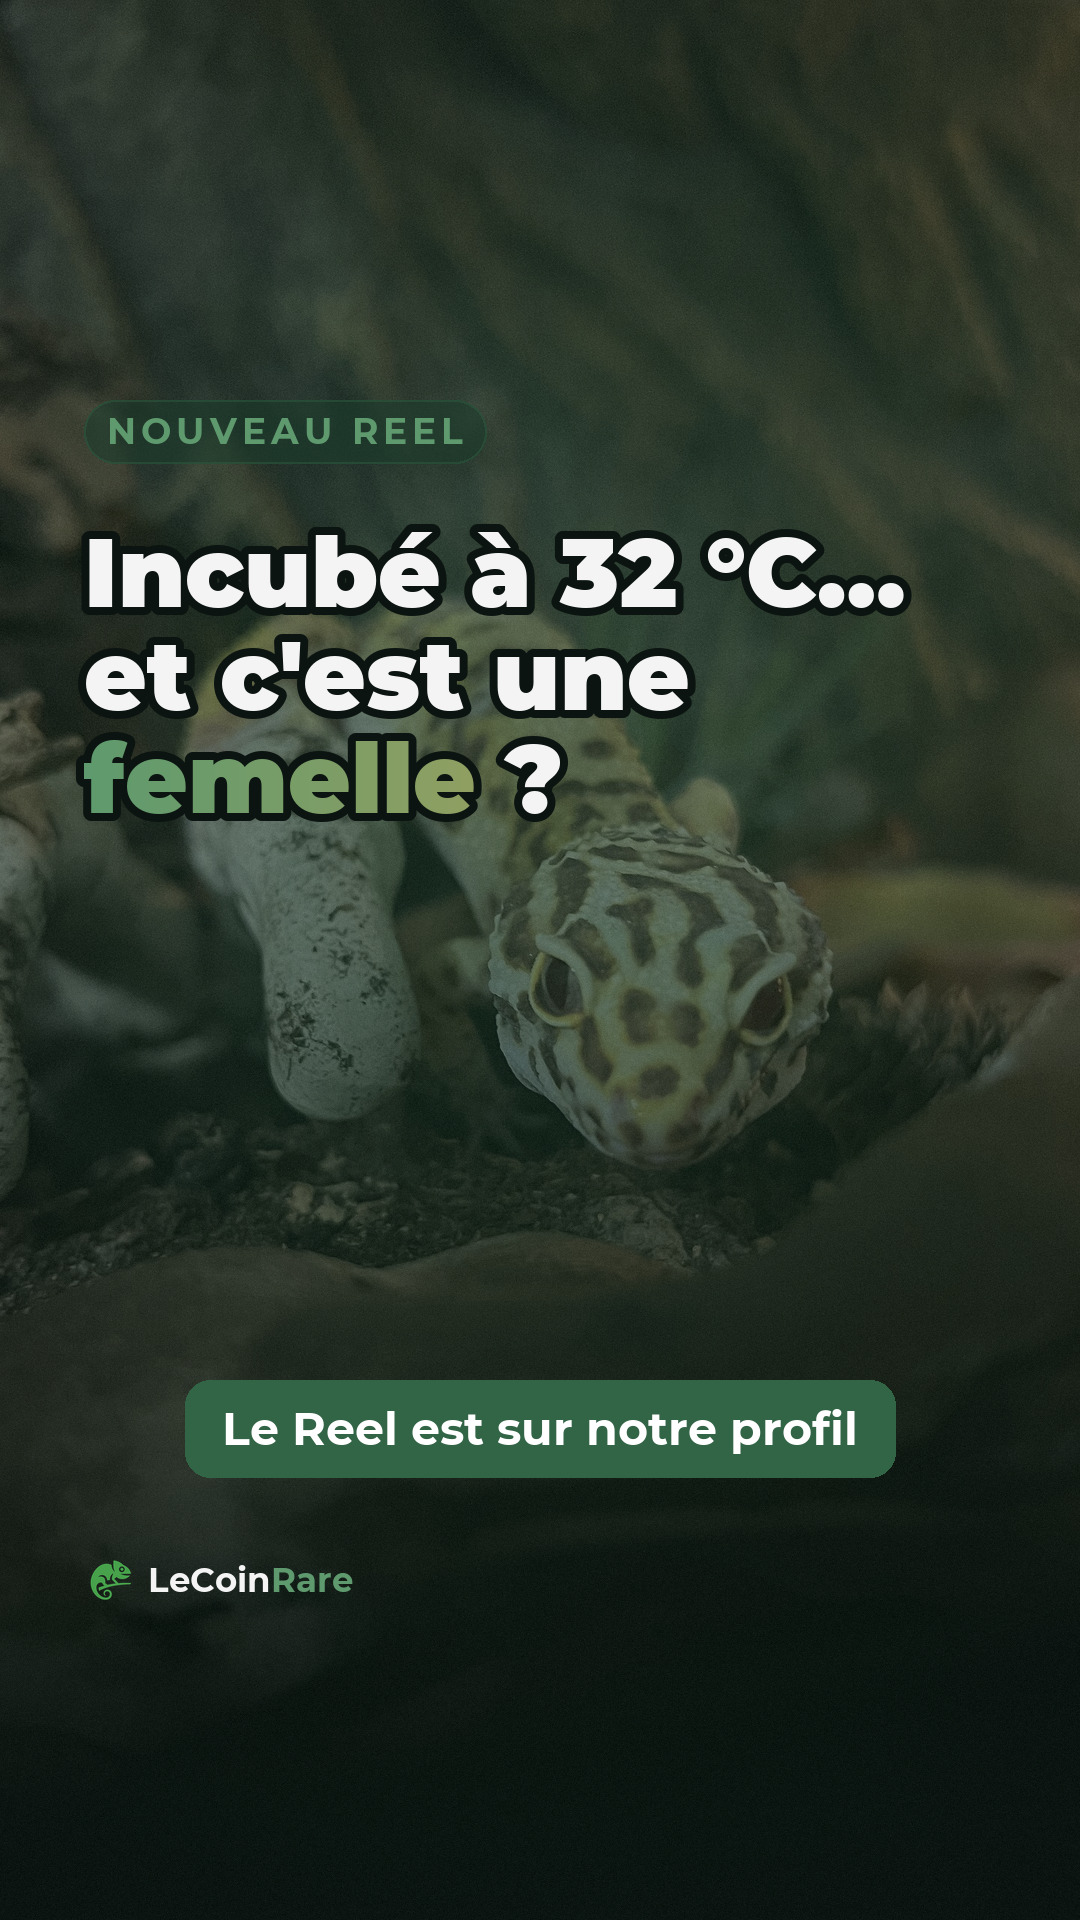
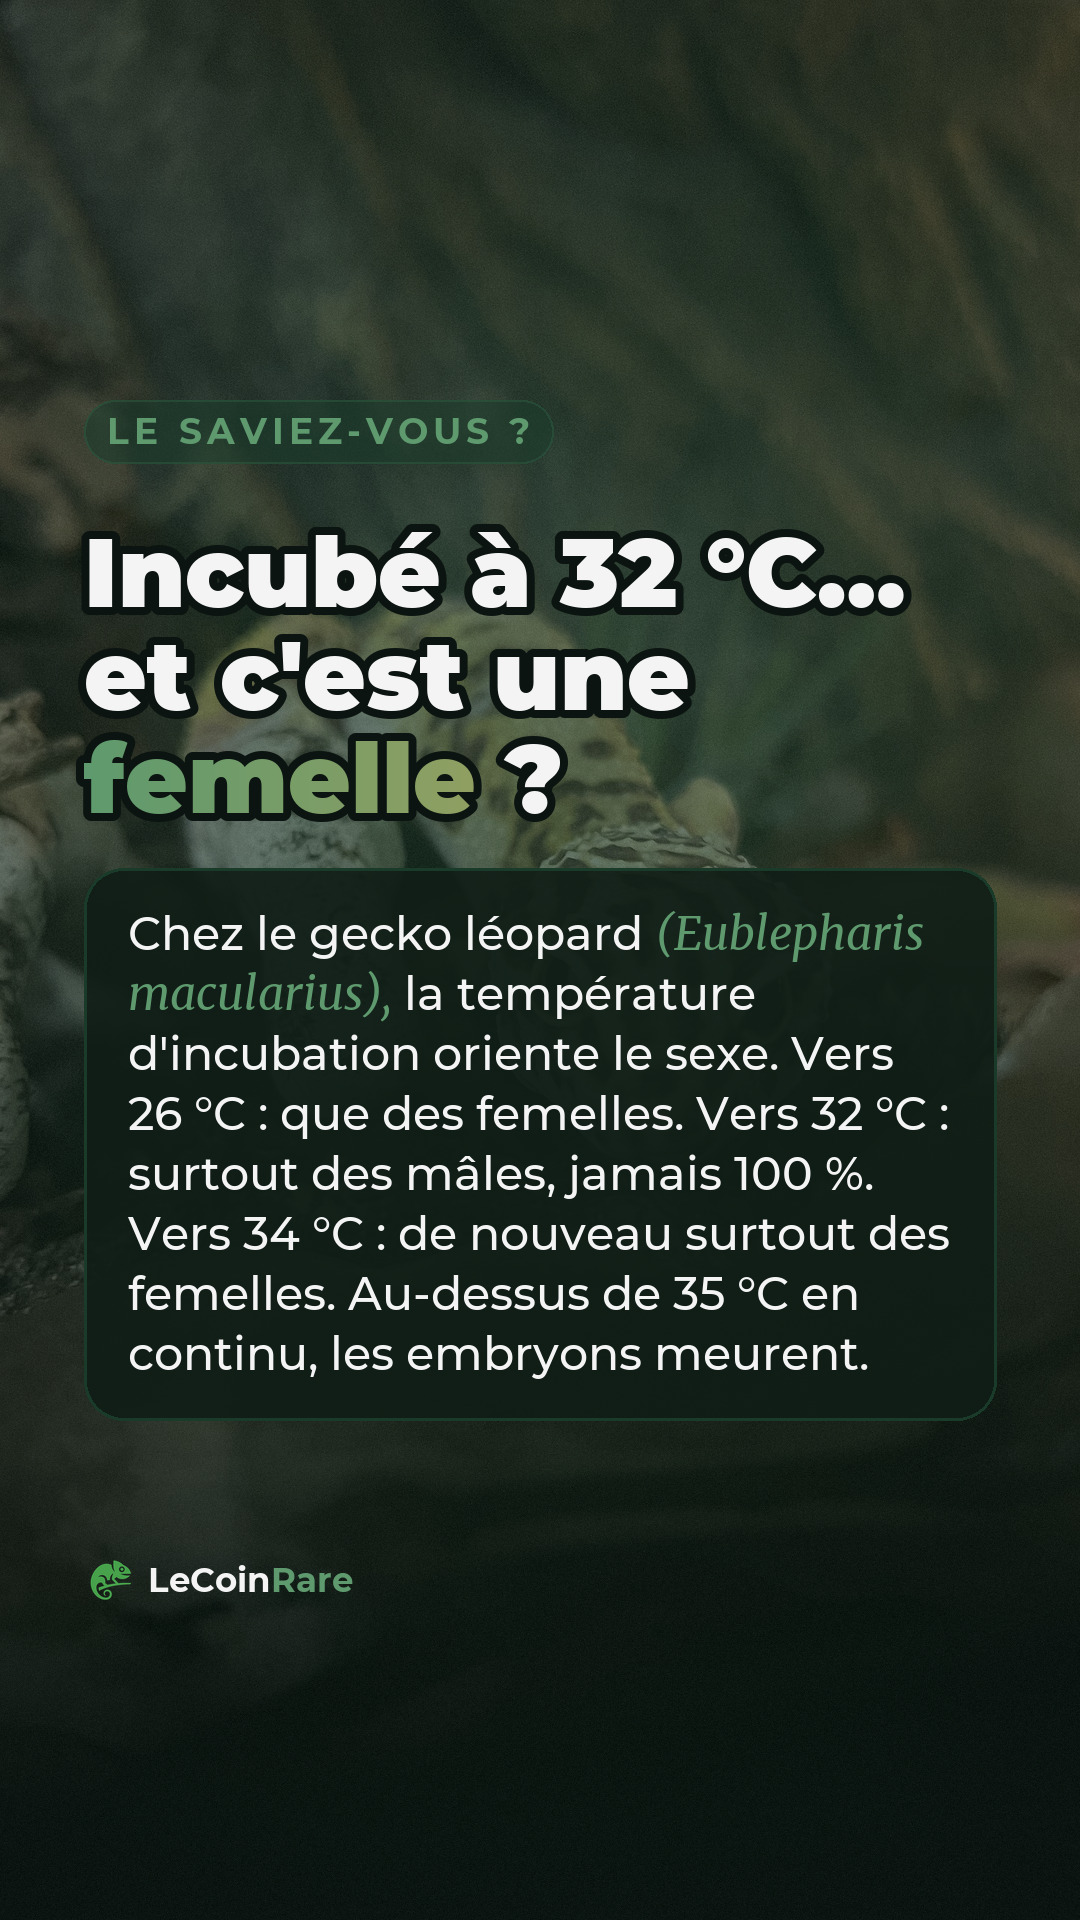
Plus de Reels : les stories du mer. 4 et du sam. 7 deviennent des « Le saviez-vous ? » (relues par le critique, vraie photo de python royal) ; telegram.py retirer ; italique après parenthèse ; texte des stories ajusté à la place

Changed region(s): [[0.0611, 0.4375, 0.9472, 0.7812], [0.0917, 0.2188, 0.4583, 0.25]]

diff --git a/generateur/telegram.py b/generateur/telegram.py
@@ -245,6 +245,26 @@ def son(args):
         api("sendAudio", {"chat_id": str(chat), "title": titre, "performer": "LeCoinRare"}, {"audio": f})
 
 
+def retirer(args):
+    """Retire des envois abandonnés : leurs boutons disparaissent (plus de validation possible), une note le dit,
+    et ils sortent de l'état."""
+    etat = charger()
+    chat = etat.get("chat")
+    for id_ in args.ids:
+        e = etat["envois"].pop(id_, None)
+        if not e:
+            print(f"Inconnu : {id_}")
+            continue
+        try:
+            api("editMessageReplyMarkup", {"chat_id": chat, "message_id": e["message_id"], "reply_markup": {"inline_keyboard": []}})
+            api("sendMessage", {"chat_id": chat, "text": f"🗑 Retiré : {e['titre']}" + (f"\n{args.raison}" if args.raison else ""),
+                                "reply_parameters": {"message_id": e["message_id"]}})
+        except RuntimeError as err:
+            print(f"{id_} : {err}")
+        print(f"Retiré : {e['titre']} (Metricool {e.get('metricool') or '-'})")
+    sauver(etat)
+
+
 def oublier(args):
     """Retire de l'état les envois traités (publiés ou abandonnés), pour garder la liste courte."""
     etat = charger()
@@ -279,6 +299,10 @@ if __name__ == "__main__":
     a.add_argument("fichiers", nargs="+")
     a.add_argument("-t", "--texte", default="", help="message envoyé avant les fichiers")
     a.set_defaults(f=son)
+    r = sub.add_parser("retirer", help="retire des envois abandonnés (boutons enlevés, note dans la conversation)")
+    r.add_argument("ids", nargs="+")
+    r.add_argument("--raison", default="")
+    r.set_defaults(f=retirer)
     o = sub.add_parser("oublier")
     o.add_argument("ids", nargs="*")
     o.add_argument("--messages", action="store_true", help="vider aussi les messages libres déjà lus")

diff --git a/generateur/story.py b/generateur/story.py
@@ -49,7 +49,10 @@ def titre(img, s, kicker, size):
 def story_savoir(img, s):
     y = titre(img, s, "LE SAVIEZ-VOUS ?", 96)
     if s.get("text") and (s.get("media") or s.get("media_query")):  # sur une photo : le texte dans une carte
-        c.texte_en_carte(img, s["text"], y + 40, size=46)
+        taille = 46
+        while taille > 36 and c.texte_en_carte(img, s["text"], y + 40, size=taille, dessiner=False) > BOTTOM - 20:
+            taille -= 2  # la carte ne doit pas toucher le logo ni la barre de réponse
+        c.texte_en_carte(img, s["text"], y + 40, size=taille)
     elif s.get("text"):
         c.rich(img, s["text"], y + 40, "medium", 50, charte.GRIS, gap=1.3)
     return img

diff --git a/generateur/carrousel.py b/generateur/carrousel.py
@@ -44,10 +44,12 @@ def _mots(text):
     """[(mot, style)] : style "hl" (*…*), "latin" (_…_) ou None."""
     out, etat = [], None
     for raw in text.split():
-        mot = raw
+        ouvre = raw[:len(raw) - len(raw.lstrip("(«“"))]  # « (_Python regius_) » : le marqueur suit la parenthèse
+        mot = raw[len(ouvre):]
         for marque_, style in (("*", "hl"), ("_", "latin")):
             if mot.startswith(marque_):
                 etat, mot = style, mot[1:]
+        mot = ouvre + mot
         fin = None
         for marque_, style in (("*", "hl"), ("_", "latin")):
             coeur = mot.rstrip(".,;:!?…»)")
